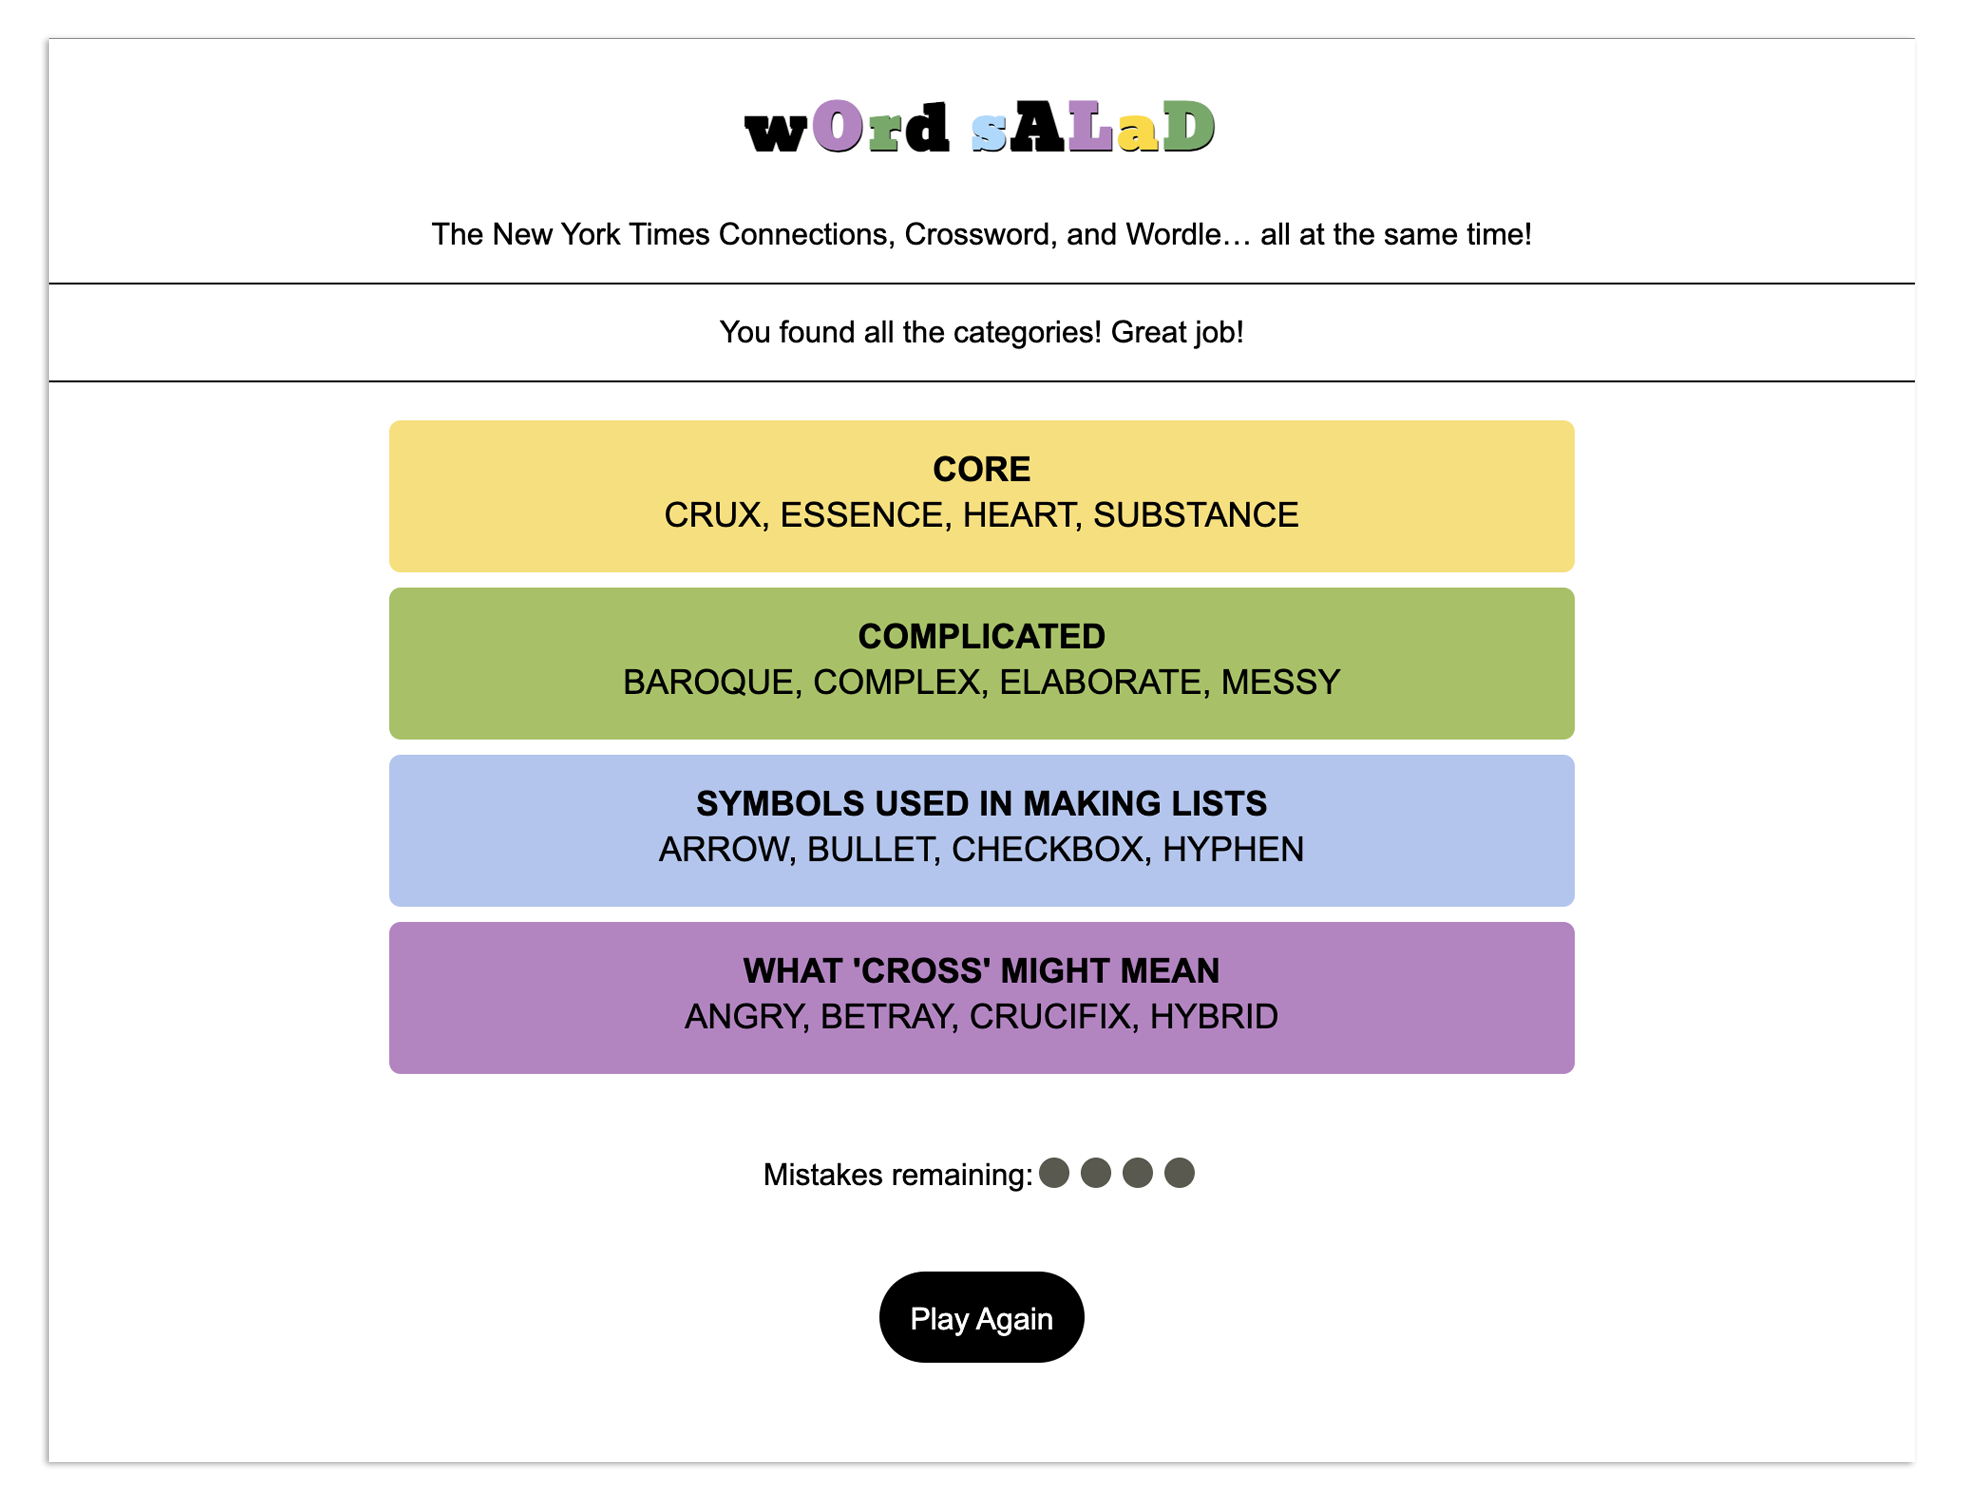
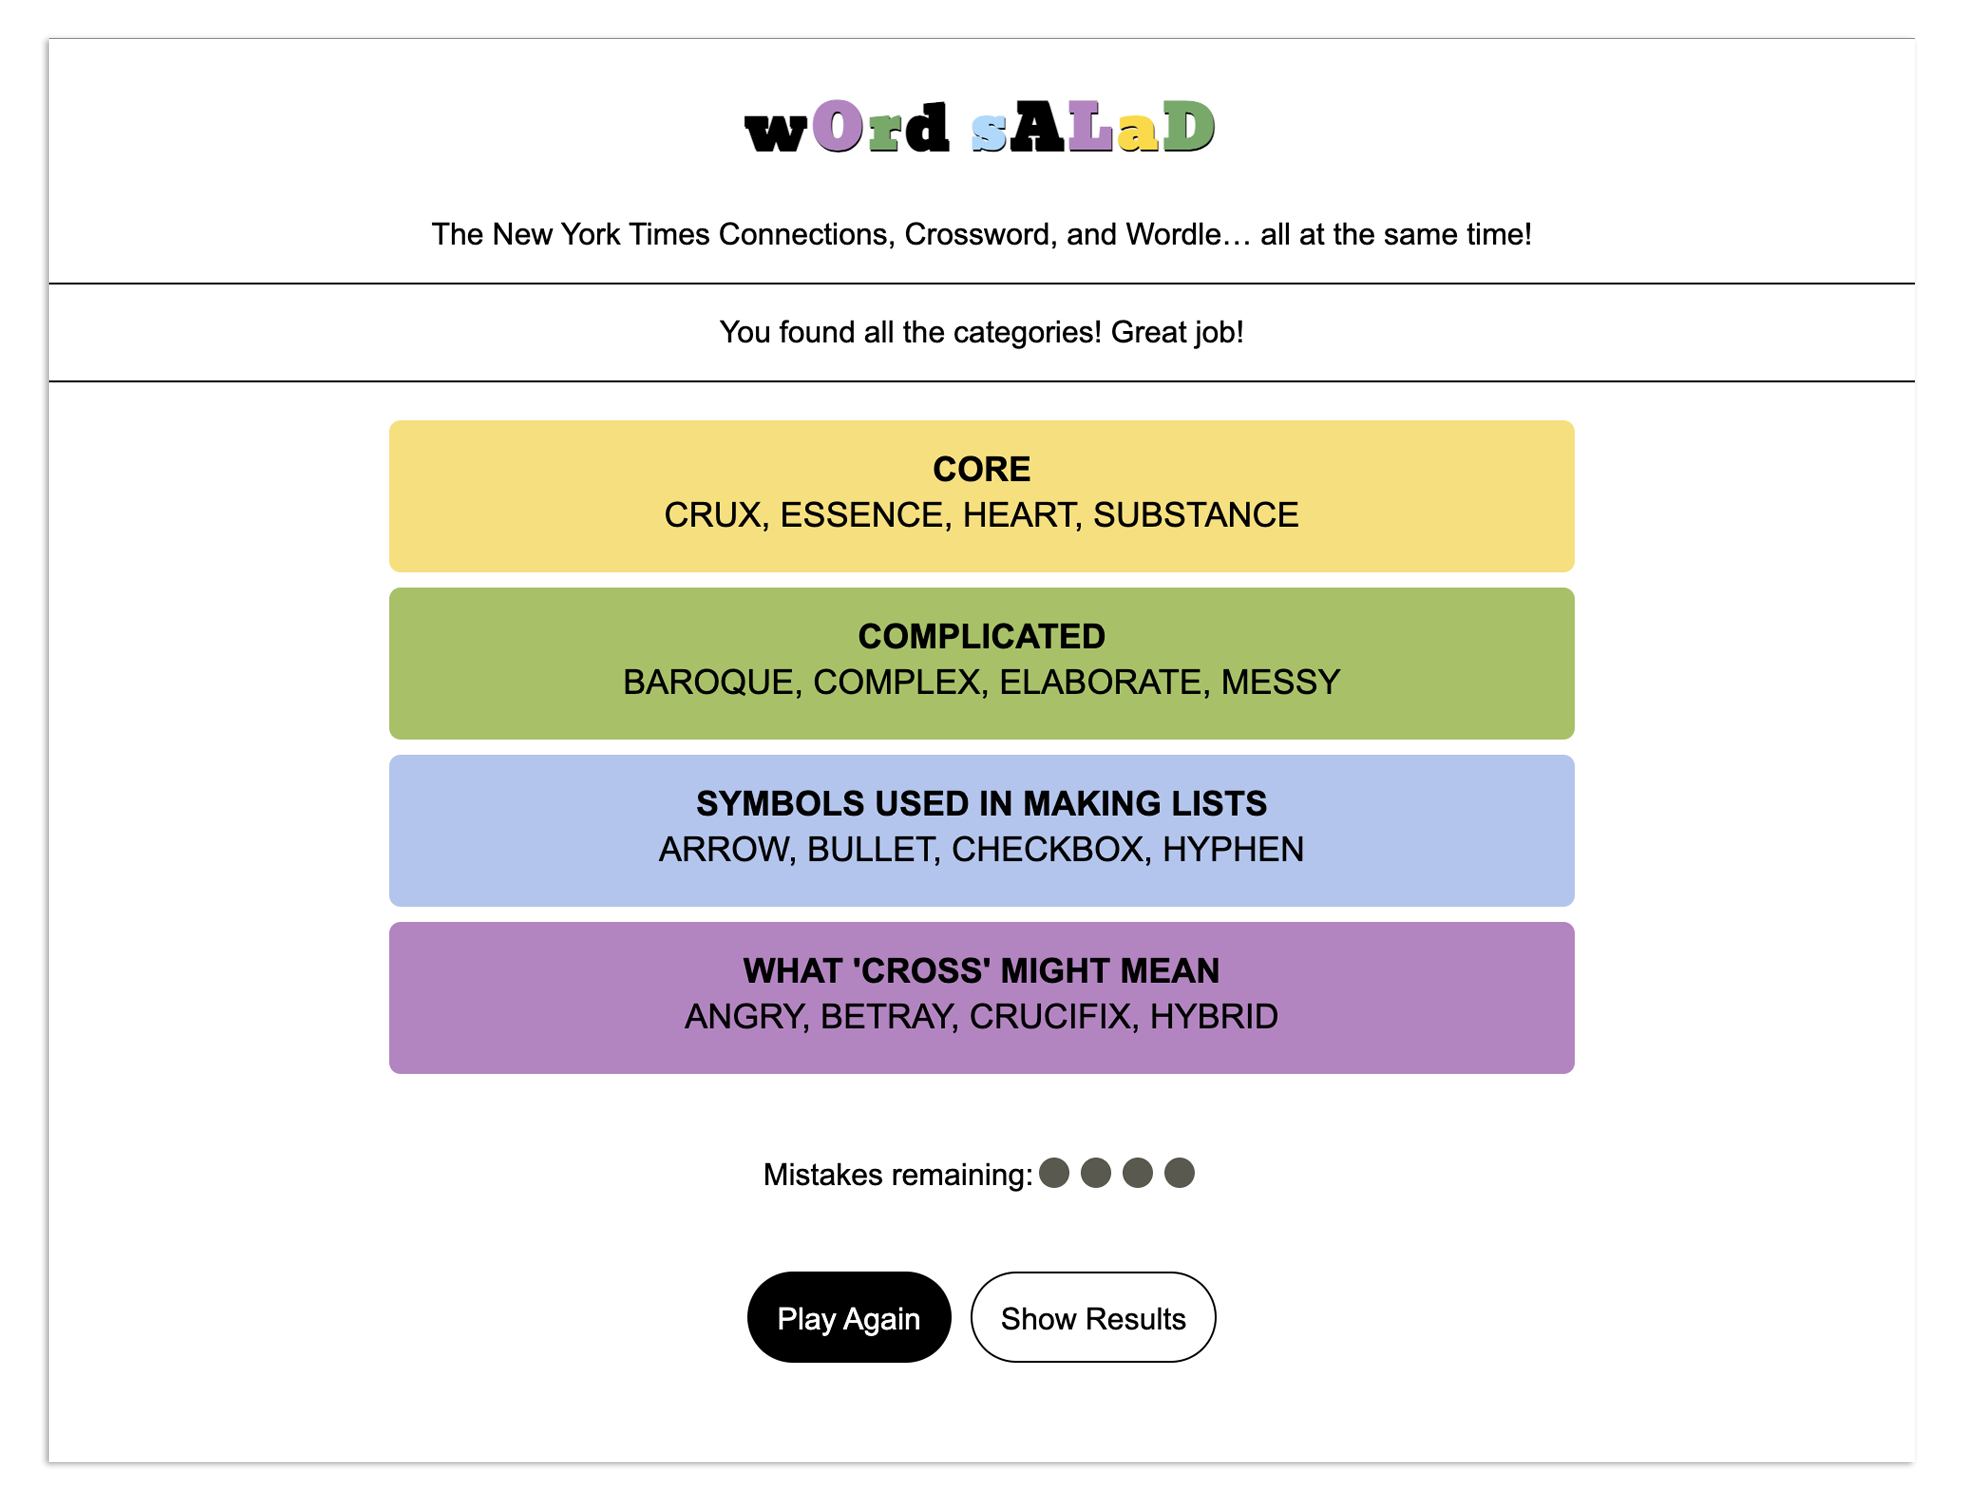
Update README with new results feature, small copy edits

Changed region(s): [[0.3727, 0.828, 0.6212, 0.92]]

diff --git a/README.md b/README.md
@@ -1,10 +1,10 @@
 ![Logo](public/images/logo.png)
 
-# Word Salad
+# What is Word Salad?
 
-**Word Salad** is a game for fans of _The New York Times_ Crossword, Connections, who have been clamoring to play all three games...simultaneously.
+**Word Salad** is a game for fans of **_The New York Times_ Crossword, Connections, and Wordle**, who have been clamoring to play all three games... simultaneously.
 
-Built with reusable React components, it features a responsive interface that easily transitions between puzzle modes within the same session, and real-time feedback and scoring. The application is fully responsive and designed to be intuitive and easy to play.
+Built with reusable React components, **Word Salad** features a responsive interface that easily transitions between different puzzles within the same session, providing real-time feedback and scoring. The application is fully responsive and designed to be intuitive and easy to play.
 
 Early, completely unsubstantiated data shows that **Word Salad** is 300% more fun than the originals.
 
@@ -21,7 +21,6 @@ pnpm dev
 # or
 bun dev
 ```
-
 Open [http://localhost:3000](http://localhost:3000) with your browser to play.
 
 ## Built with
@@ -31,47 +30,58 @@ Open [http://localhost:3000](http://localhost:3000) with your browser to play.
 * TypeScript
 * HTML
 * CSS
-* React Hooks (useState, useEffect)
 
 ## How to Play
-
-To win Word Salad, first solve all the puzzles on the cards to reveal the words. Then, find the connections between the words and group them into 4 sets of 4 words.
 
 **1. The board contains 16 cards. Some of the cards already have words. Some of the cards contain a puzzle that you'll need to solve to reveal the word.**
 
 ![Game board](public/images/starting_board.png)
 
-**2. Click on a blank card to open a puzzle. The puzzle will be either a Wordle or a crossword. Solve the puzzle to reveal the word.**
+**2. Click on the card to open the puzzle. The puzzle will be either a Wordle or a crossword. Solve the puzzle to reveal the word.**
 
 ![Puzzles](public/images/puzzles.png)
 
-**3. After all the words have been revealed, you can play Connections. Select a set of four cards that have something in common.**
+**3. Once all the words have been revealed, you'll be able to play Connections.**
 
 ![Game board all puzzles solved](public/images/board_solved.png)
 
-**4. If you select the correct group of cards, the category will be revealed.**
+**4. Select a set of 4 cards that have something in common. If you select the correct group of cards, the category will be revealed.**
 
 ![Game board with cards selected](public/images/select_cards.png)
 
 ![Single category solved](public/images/single_category_solved.png)
 
 
-**5. Continue selecting groups of four cards until you've found all the categories.**
+**5. Continue selecting groups of 4 cards until you've found all the categories.**
 
 ![All categories solved](public/images/all_categories_solved.png)
+
+**6. At the end of the game, you'll see a summary of your results for each puzzle type and your final score.**
+
+![All categories solved](public/images/results.png)
 
 ## Features
 
 ### Overall
-* Seamlessly transition between different puzzle modes: Connections, Wordle, and the Crossword
+* Seamlessly transition between different puzzle modes:
+  * Connections
+  * Wordle
+  * Crossword
+* Real-time feedback to user input
+  * After you successfully solve a puzzle, the word will appear on the card in black text.
+  * If you are unable to solve the puzzle or you quit the puzzle without solving it, the word will appear on the card in red text.
+* Results summary at the end of the game:
+  * Shows the number of Wordles and Crosswords solved and the number of Connections categories found
+  * Calculates overall score
 
 ### Wordle
 * Real-time feedback to user input
-  * When you submit a word, tile colors change to show how close you are to guessing the correct word. The game takes into account letter position and checks for duplicate letters.
-  * You can only input valid letter characters
-  * Animations
+  * When you submit a word, tile colors change to show how close the guess is to the correct word. The game logic takes into account letter position duplicate letters.
+  * You can only input valid letter characters.
+  * You can't submit duplicate guesses.
+  * Different animations play based on user interactions.
 * State management - The game keeps track of previous guesses.
-* Binary search to confirm that the submitted word is in the 14,800+ word Wordle dictionary.
+* Binary search to efficiently confirm that the submitted word is in the 14,800+ word Wordle dictionary.
 
 ![Solved Wordle puzzle](public/images/wordle_solved.png)
 
@@ -79,9 +89,10 @@ To win Word Salad, first solve all the puzzles on the cards to reveal the words.
 
 ### Crossword
 * Real-time feedback to user input
-  * You can only input valid letter characters
-  * Animations
-  * Submit button is enabled/disabled according to user actions.
+  * You can only input valid letter characters.
+  * You can't submit duplicate guesses.
+  * Different animations play based on user interactions.
+  * The submit button is enabled/disabled according to user actions.
 * State management - The game keeps track of previous words guessed and the number of guesses made.
 
 ![Solved Wordle puzzle](public/images/xword_solved.png)
@@ -91,12 +102,11 @@ To win Word Salad, first solve all the puzzles on the cards to reveal the words.
 ### Connections
 **Solving puzzles**
 * Real-time feedback to user input
-  * After you successfully solve a puzzle, the word will appear on the card in black text.
-  * If you are unable to solve the puzzle or you quit the puzzle early, the word will appear on the card in red text.
   * Deselect and Submit buttons are enabled/disabled according to user actions.
-  * You cannot select more than four cards at a time.
-  * The game will tell you when you are one card away from completing a category.
-  * Animations
+  * You can't select more than 4 cards at a time.
+  * You can't submit duplicate guesses.
+  * The game will tell you when you are 1 card away from solving a category.
+  * Different animations play based on user interactions.
 * State management - The game keeps track of the sets of cards you have selected previously and the number of guesses made.
 * Shuffle cards or deselect all previously selected cards.
 
@@ -107,12 +117,11 @@ To win Word Salad, first solve all the puzzles on the cards to reveal the words.
 ---
 ## Potential Roadmap
 
-- [ ] Game summary that shows number of Wordles, Crosswords, and Connections solved
 - [ ] Wordle features
   - [ ] Hard mode - All successive guesses must contain previously guessed letters that were matches
 - [ ] Crossword features
   - [ ] After each guess, show the letters that are correct
-  - [ ] Give the option for Crossword hints
+  - [ ] Give an option for Crossword hints
 - [ ] After the connections game has been played, the board flips over and turns into different puzzles:
   - [ ] Sudoku
   - [ ] Spelling Bee
